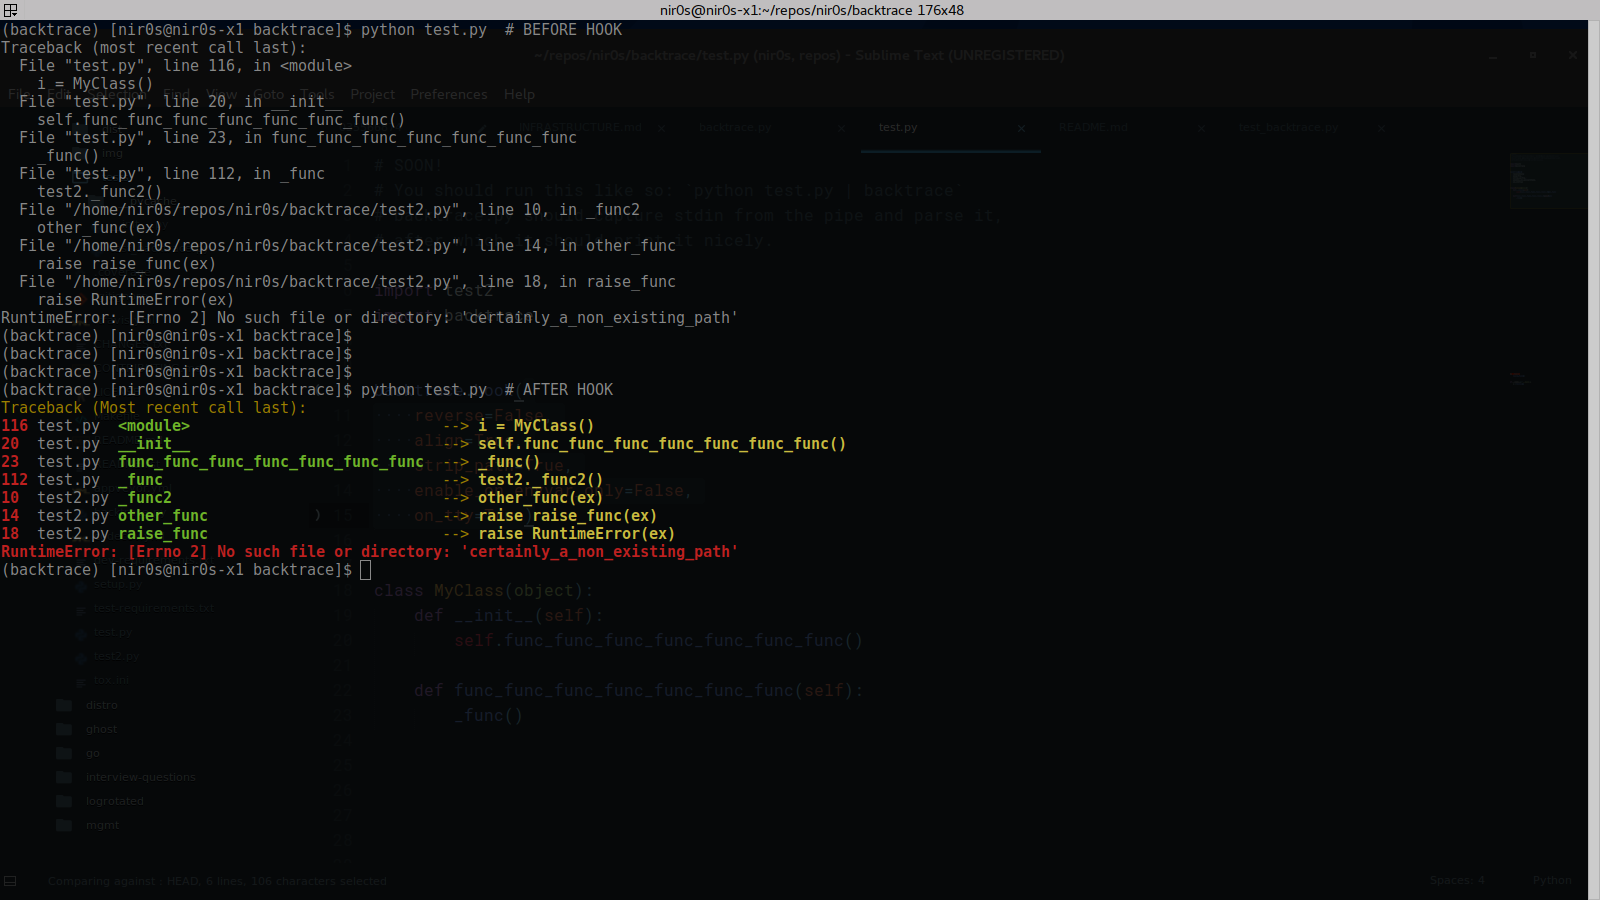
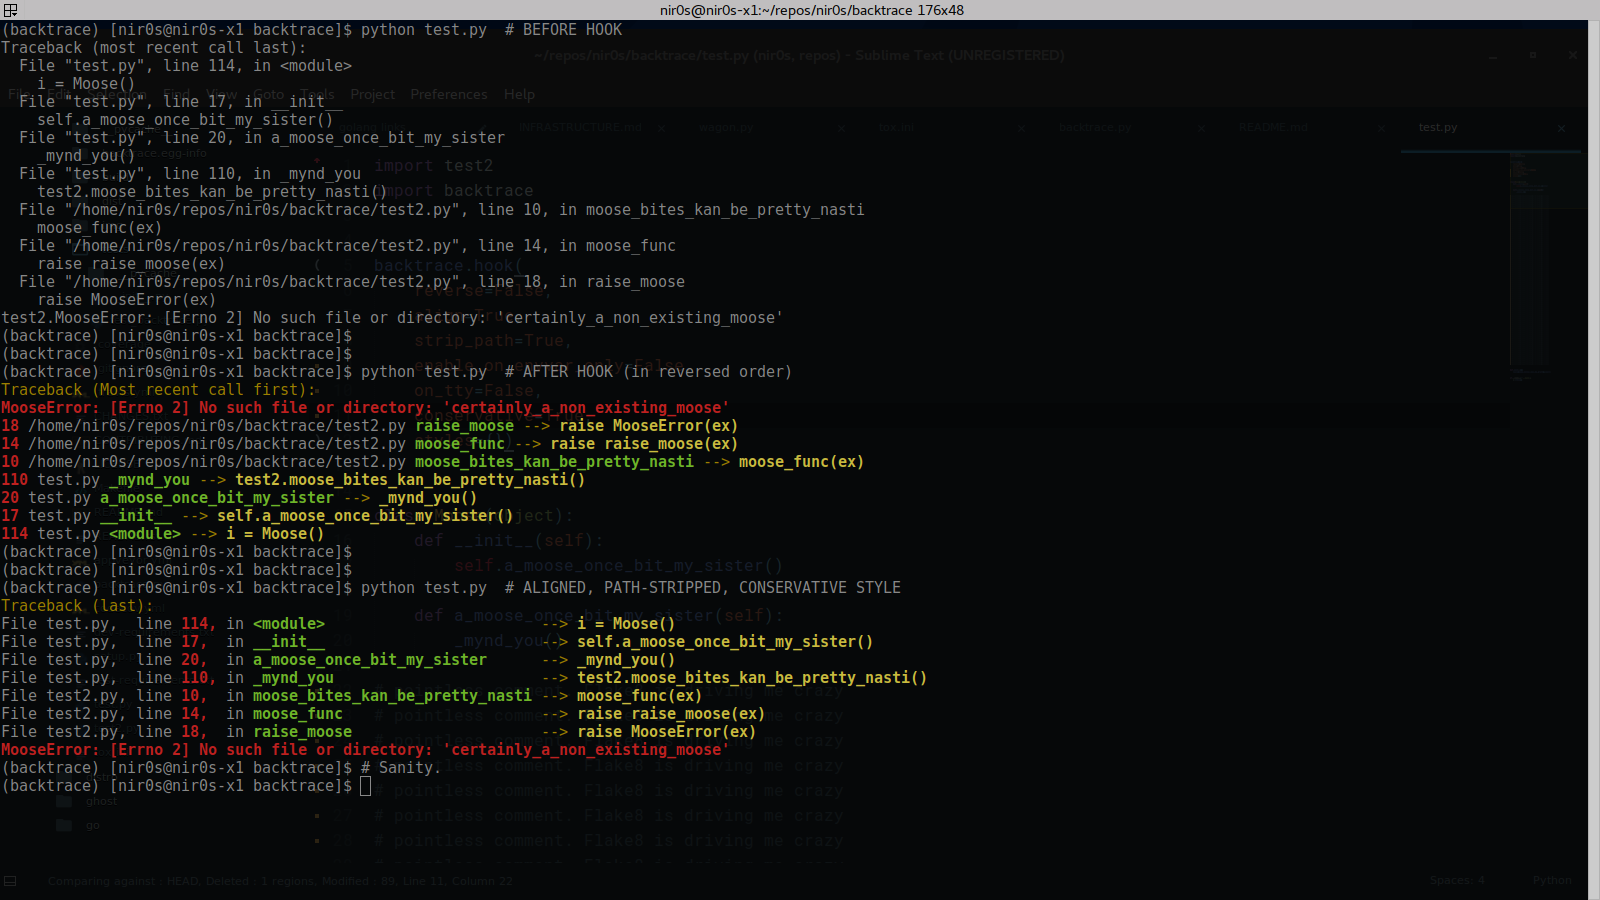
Optimizations

diff --git a/test.py b/test.py
@@ -1,8 +1,3 @@
-# SOON!
-# You should run this like so: `python test.py | backtrace`
-# backtrace.py should capture stdin from the pipe and parse it,
-# after which it should print it nicely.
-
 import test2
 import backtrace
 
@@ -11,8 +6,10 @@ backtrace.hook(
     reverse=False,
     align=True,
     strip_path=True,
-    enable_on_envvar_only=False, conservative=False,
-    on_tty=True, styles={})
+    enable_on_envvar_only=False,
+    on_tty=False,
+    conservative=False,
+    styles={})
 
 
 class Moose(object):
@@ -22,90 +19,91 @@ class Moose(object):
     def a_moose_once_bit_my_sister(self):
         _mynd_you()
 
-
-
-
-
-
-
-
-
-
-
-
-
-
-
-
-
-
-
-
-
-
-
-
-
-
-
-
-
-
-
-
-
-
-
-
-
-
-
-
-
-
-
-
-
-
-
-
-
-
-
-
-
-
-
-
-
-
-
-
-
-
-
-
-
-
-
-
-
-
-
-
-
-
-
-
-
-
-
-
-
-
-
-
-
+# pointless comment. Flake8 is driving me crazy
+# pointless comment. Flake8 is driving me crazy
+# pointless comment. Flake8 is driving me crazy
+# pointless comment. Flake8 is driving me crazy
+# pointless comment. Flake8 is driving me crazy
+# pointless comment. Flake8 is driving me crazy
+# pointless comment. Flake8 is driving me crazy
+# pointless comment. Flake8 is driving me crazy
+# pointless comment. Flake8 is driving me crazy
+# pointless comment. Flake8 is driving me crazy
+# pointless comment. Flake8 is driving me crazy
+# pointless comment. Flake8 is driving me crazy
+# pointless comment. Flake8 is driving me crazy
+# pointless comment. Flake8 is driving me crazy
+# pointless comment. Flake8 is driving me crazy
+# pointless comment. Flake8 is driving me crazy
+# pointless comment. Flake8 is driving me crazy
+# pointless comment. Flake8 is driving me crazy
+# pointless comment. Flake8 is driving me crazy
+# pointless comment. Flake8 is driving me crazy
+# pointless comment. Flake8 is driving me crazy
+# pointless comment. Flake8 is driving me crazy
+# pointless comment. Flake8 is driving me crazy
+# pointless comment. Flake8 is driving me crazy
+# pointless comment. Flake8 is driving me crazy
+# pointless comment. Flake8 is driving me crazy
+# pointless comment. Flake8 is driving me crazy
+# pointless comment. Flake8 is driving me crazy
+# pointless comment. Flake8 is driving me crazy
+# pointless comment. Flake8 is driving me crazy
+# pointless comment. Flake8 is driving me crazy
+# pointless comment. Flake8 is driving me crazy
+# pointless comment. Flake8 is driving me crazy
+# pointless comment. Flake8 is driving me crazy
+# pointless comment. Flake8 is driving me crazy
+# pointless comment. Flake8 is driving me crazy
+# pointless comment. Flake8 is driving me crazy
+# pointless comment. Flake8 is driving me crazy
+# pointless comment. Flake8 is driving me crazy
+# pointless comment. Flake8 is driving me crazy
+# pointless comment. Flake8 is driving me crazy
+# pointless comment. Flake8 is driving me crazy
+# pointless comment. Flake8 is driving me crazy
+# pointless comment. Flake8 is driving me crazy
+# pointless comment. Flake8 is driving me crazy
+# pointless comment. Flake8 is driving me crazy
+# pointless comment. Flake8 is driving me crazy
+# pointless comment. Flake8 is driving me crazy
+# pointless comment. Flake8 is driving me crazy
+# pointless comment. Flake8 is driving me crazy
+# pointless comment. Flake8 is driving me crazy
+# pointless comment. Flake8 is driving me crazy
+# pointless comment. Flake8 is driving me crazy
+# pointless comment. Flake8 is driving me crazy
+# pointless comment. Flake8 is driving me crazy
+# pointless comment. Flake8 is driving me crazy
+# pointless comment. Flake8 is driving me crazy
+# pointless comment. Flake8 is driving me crazy
+# pointless comment. Flake8 is driving me crazy
+# pointless comment. Flake8 is driving me crazy
+# pointless comment. Flake8 is driving me crazy
+# pointless comment. Flake8 is driving me crazy
+# pointless comment. Flake8 is driving me crazy
+# pointless comment. Flake8 is driving me crazy
+# pointless comment. Flake8 is driving me crazy
+# pointless comment. Flake8 is driving me crazy
+# pointless comment. Flake8 is driving me crazy
+# pointless comment. Flake8 is driving me crazy
+# pointless comment. Flake8 is driving me crazy
+# pointless comment. Flake8 is driving me crazy
+# pointless comment. Flake8 is driving me crazy
+# pointless comment. Flake8 is driving me crazy
+# pointless comment. Flake8 is driving me crazy
+# pointless comment. Flake8 is driving me crazy
+# pointless comment. Flake8 is driving me crazy
+# pointless comment. Flake8 is driving me crazy
+# pointless comment. Flake8 is driving me crazy
+# pointless comment. Flake8 is driving me crazy
+# pointless comment. Flake8 is driving me crazy
+# pointless comment. Flake8 is driving me crazy
+# pointless comment. Flake8 is driving me crazy
+# pointless comment. Flake8 is driving me crazy
+# pointless comment. Flake8 is driving me crazy
+# pointless comment. Flake8 is driving me crazy
+# pointless comment. Flake8 is driving me crazy
 
 
 def _mynd_you():

diff --git a/backtrace.py b/backtrace.py
@@ -1,15 +1,10 @@
 import os
 import sys
 import traceback
-from os.path import basename
 
 import colorama
 from colorama import Fore, Style
 
-
-# TODO: Allow to enable backtrace by setting an environment variable.
-
-RESET = Style.RESET_ALL
 
 STYLES = {
     'backtrace': Fore.YELLOW + '{0}',
@@ -17,7 +12,7 @@ STYLES = {
     'line': Fore.RED + Style.BRIGHT + '{0}',
     'module': '{0}',
     'context': Style.BRIGHT + Fore.GREEN + '{0}',
-    'call': Fore.YELLOW + ' --> ' + Style.BRIGHT + '{0}',
+    'call': Fore.YELLOW + '--> ' + Style.BRIGHT + '{0}',
 }
 
 CONVERVATIVE_STYLES = {
@@ -52,15 +47,15 @@ class _Hook(object):
     def rebuild_entry(self, entry, styles):
         entry = list(entry)
         # This is the file path.
-        entry[0] = basename(entry[0]) if self.strip else entry[0]
+        entry[0] = os.path.basename(entry[0]) if self.strip else entry[0]
         # Always an int (entry line number)
         entry[1] = str(entry[1])
 
         new_entry = [
-            styles['line'].format(entry[1]) + RESET,
-            styles['module'].format(entry[0]) + RESET,
-            styles['context'].format(entry[2]) + RESET,
-            styles['call'].format(entry[3]) + RESET
+            styles['line'].format(entry[1]) + Style.RESET_ALL,
+            styles['module'].format(entry[0]) + Style.RESET_ALL,
+            styles['context'].format(entry[2]) + Style.RESET_ALL,
+            styles['call'].format(entry[3]) + Style.RESET_ALL
         ]
         if self.conservative:
             new_entry[0], new_entry[1] = new_entry[1], new_entry[0]
@@ -137,7 +132,6 @@ def hook(reverse=False,
     if on_tty and not isatty():
         return
 
-    styles = styles or {}
     if conservative:
         styles = CONVERVATIVE_STYLES
         align = align or False
@@ -147,6 +141,7 @@ def hook(reverse=False,
     else:
         styles = STYLES
 
+    # For Windows
     colorama.init(autoreset=True)
 
     def backtrace_excepthook(tpe, value, tb):

diff --git a/test2.py b/test2.py
@@ -1,11 +1,11 @@
 def moose_bites_kan_be_pretty_nasti():
     try:
-        filename = 'certainly_a_non_existing_path'
+        filename = 'certainly_a_non_existing_moose'
         with open(filename) as f:
             f.read()
-        print('Wait.. you have a file under the cwd called {0}?! You '
+        print('Wait.. you have a moose under the cwd called {0}?! You '
               'crazy.'.format(filename))
-        raise RuntimeError('just an error')
+        raise MooseError('anoother moosy error')
     except IOError as ex:
         moose_func(ex)
 

diff --git a/README.md b/README.md
@@ -16,13 +16,13 @@ WIP! Untested!
 backtrace manipulates Python tracebacks to make them more readable.
 It provides different configuration options for coloring and formatting.
 
-backtrace also allows to choose the formatting for each part of the traceback; show the traceback entries in reversed order, and more..
+backtrace also allows to choose the formatting of each part of the traceback; show the traceback entries in reversed order, and more..
 
 Example:
 
 ![Trump? REALLY?! What a nation of idiots!](https://github.com/nir0s/backtrace/raw/master/img/main.png)
 
-NOTE: Windows support coming soon! (Ordering will probably work on Windows. Coloring probably won't.)
+NOTE: Didn't test this on Windows yet. Should work.. but don't know how well.
 
 
 ## Alternatives
